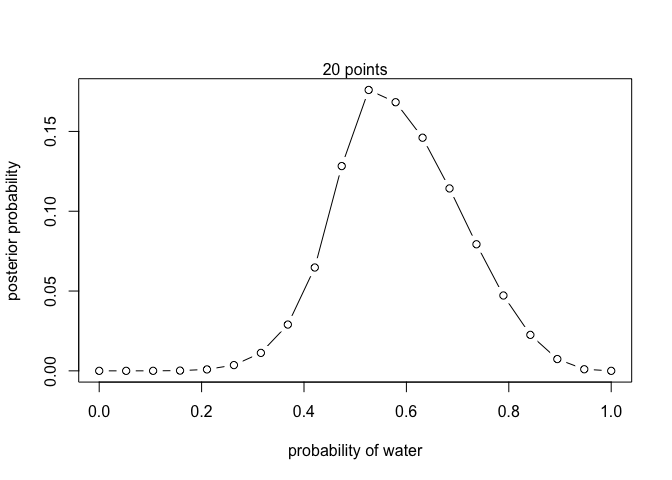
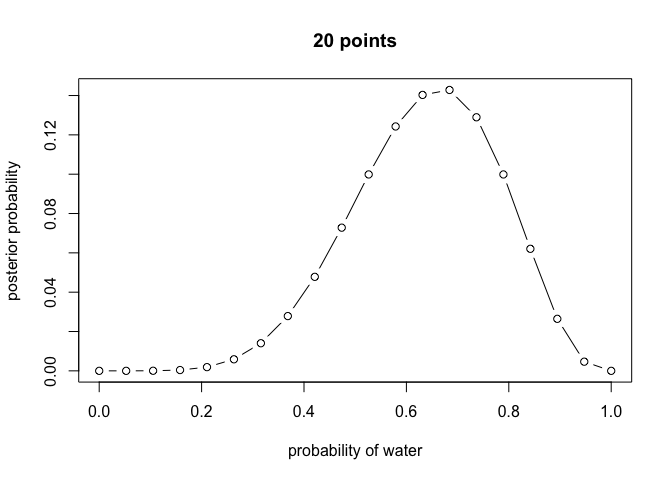
rendering the .md file

diff --git a/Notes_StatisticalRethinking.md b/Notes_StatisticalRethinking.md
@@ -1,36 +1,55 @@
 # Notes_StatisticalRethinking
 Krisma Adiwibawa
 
-## Globe tossing (Grid Approximation)
+## Chapter 2: Small Worlds and Large Worlds
+
+### Grid Approximation in the Globe Tossing Context
 
 ``` r
-# define grid
+# Step 1: Define grid
 p_grid <- seq(0, 1, length.out=20)
+# grid of 20 points. They act as the candidates of the parameter value. We know the proportion of water is between 0 (0 %, no water) and 1 (100%, all water). It's impossible to have a negative value or a value of more than 1, so we limit the candidates values to this range.
+# We even know already that there is more water than land actually. But here we pretend we are dumb and we don't have this idea.
 
-# define prior
-prior <- ifelse(p_grid < 0.5, 0, 1)
-prior <- exp(-5 * abs(p_grid-0.5)) # exponential decay function / Laplace distribution
+# Step 2: Define prior
+prior <- rep(1, length(p_grid))
+#### Prior alternatives:
+# prior <- ifelse(p_grid < 0.5, 0, 1)
+# We assign the prior likelihood of 0 to candidates < 0.5 and the prior likelihood of 1 to candidates >= 0.5
+# or
+# prior <- exp(-5 * abs(p_grid-0.5))
+# exponential decay function / Laplace distribution. Pointy in the middle and has heavier tails than a Gaussian distribution. This is a prior which puts a higher likelihood to the middle value of range 0 and 1
 
-# compute likelihood at each value in grid
+# Step 3: Compute likelihood at each value in grid
 likelihood <- dbinom(6, 9, p_grid)
+# This is where the actual data informs us about the likelihood of each candidate (each element of p_grid). The data would suggest that some elements of p_grid are more likely than others.
 
-# compute product of likelihood and prior
+# Step 4: Compute product of likelihood and prior
 unstd.posterior <- likelihood * prior
+# This is where our prior belief is updated by incorporating information we get from the data.
+# prior <- rep(1, length(p_grid)) means "1" is multiplied to each element in the vector 'likelihood'. In other words, our prior is giving equal likelihood to each candidate because we didn't have any idea which candidate is more likely. Now, we are taking the likelihoods  in the vector 'likelihood' as our 'posterior' (updated belief).
 
-# standardize the posterior, so it sums to 1
+# Step 5: Standardize the posterior, so it sums to 1
 posterior <- unstd.posterior / sum(unstd.posterior)
+
+# Result:
+# Now we have the updated likelihood after seeing the data, namely 'posterior'.
+# Explanation:
+# First, we nominate 20 points between 0 and 1 as the candidates. We have no idea which is the most likely to be true parameter value.
+# After seeing the data, we get some information about the likelihood of the candidates.
+# We then update our prior with this information by multiplying the prior with the information we got from the data. In this case, all parameter candidate (the 20 points in the grid is equally likely (all have a prior of 1).
+# Now, some candidates are more likely than others because the data informs us so. These likelihoods is contained in the vector 'posterior'.
 ```
 
-## Plot
+### Visualization of the likelihood (posterior probability) of each 20 candidate
 
 ``` r
-plot(p_grid, posterior, type="b", xlab = "probability of water", ylab = "posterior probability")
-mtext("20 points")
+plot(p_grid, posterior, type="b", xlab = "probability of water", ylab = "posterior probability", main="20 points")
 ```
 
 ![](Notes_StatisticalRethinking_files/figure-commonmark/unnamed-chunk-2-1.png)
 
-## Globe Tossing (Quadratic Approximation)
+### Quadratic Approximation of the Globe Tossing Context (Try Out)
 
 ``` r
 library(rethinking)
@@ -86,9 +105,9 @@ precis(globe.qa)
 ```
 
            mean        sd      5.5%     94.5%
-    p 0.6666668 0.1571337 0.4155368 0.9177969
+    p 0.6666663 0.1571339 0.4155361 0.9177966
 
-## Compare how good the approximation is
+### Compare How Good the Quadratic Approximation is, With the Grid Approximation Result
 
 ``` r
 # analytical calculation
@@ -102,7 +121,7 @@ curve(dnorm(x, 0.67, 0.16), lty=2, add=TRUE)
 
 ![](Notes_StatisticalRethinking_files/figure-commonmark/unnamed-chunk-4-1.png)
 
-## Globe Tossing (Markov Chain Monte Carlo)
+### Markov Chain Monte Carlo in the Globe Tossing Context (Try Out)
 
 ``` r
 n_samples <- 1000
@@ -120,7 +139,7 @@ for (i in 2:n_samples) {
 }
 ```
 
-## The values in p are samples from the posterior distribution. To compare to the analytical posterior:
+#### The values in p are samples from the posterior distribution. To compare to the analytical posterior:
 
 ``` r
 dens(p, xlim=c(0,1))
@@ -129,7 +148,9 @@ curve(dbeta(x, W+1, L+1), lty=2, add=TRUE)
 
 ![](Notes_StatisticalRethinking_files/figure-commonmark/unnamed-chunk-6-1.png)
 
-## Vampire test
+## Chapter 3: Sampling the Imaginary
+
+### Vampire test
 
 ``` r
 Pr_Positive_Vampire <- 0.95
@@ -146,7 +167,7 @@ Pr_Positive <- Pr_Positive_Vampire * Pr_Vampire + Pr_Positive_Mortal * (1-Pr_Vam
 # 8.7% chance that the suspect is actually a vampire
 ```
 
-## Sampling from a grid-approximate posterior
+### Sampling from a grid-approximate posterior
 
 ``` r
 p_grid <- seq(from=0, to=1, length.out=10000)
@@ -156,7 +177,7 @@ posterior <- prob_data * prob_p
 posterior <- posterior / sum(posterior)
 ```
 
-# Now, we want to take 10000 samples from the posterior
+### Now, we want to take 10000 samples from the posterior
 
 ``` r
 samples <- sample(p_grid, prob=posterior, size=1e4, replace=TRUE)
@@ -172,7 +193,7 @@ dens(samples)
 
 ![](Notes_StatisticalRethinking_files/figure-commonmark/unnamed-chunk-9-2.png)
 
-## Chapter 3 - Practice
+### Ch. 3 - Practice
 
 ``` r
 p_grid <- seq(from=0, to=1, length.out=1000)
@@ -314,4 +335,190 @@ simplehist(post_pred_samples, xlab="Number of water tosses")
 
 ![](Notes_StatisticalRethinking_files/figure-commonmark/unnamed-chunk-10-5.png)
 
-test123
+``` r
+## R code 3.28
+birth1 <- c(1,0,0,0,1,1,0,1,0,1,0,0,1,1,0,1,1,0,0,0,1,0,0,0,1,0,
+0,0,0,1,1,1,0,1,0,1,1,1,0,1,0,1,1,0,1,0,0,1,1,0,1,0,0,0,0,0,0,0,
+1,1,0,1,0,0,1,0,0,0,1,0,0,1,1,1,1,0,1,0,1,1,1,1,1,0,0,1,0,1,1,0,
+1,0,1,1,1,0,1,1,1,1)
+birth2 <- c(0,1,0,1,0,1,1,1,0,0,1,1,1,1,1,0,0,1,1,1,0,0,1,1,1,0,
+1,1,1,0,1,1,1,0,1,0,0,1,1,1,1,0,0,1,0,1,1,1,1,1,1,1,1,1,1,1,1,1,
+1,1,1,0,1,1,0,1,1,0,1,1,1,0,0,0,0,0,0,1,0,0,0,1,1,0,0,1,0,0,1,1,
+0,0,0,1,1,1,0,0,0,0)
+# These data indicate the gender (male=1, female=0) of officially reported first and second born children in 100 two-child families.
+
+(sum(birth1)+sum(birth2))
+```
+
+    [1] 111
+
+``` r
+# Using grid approximation, compute the posterior distribution for the probability of a birth being a boy. Assume a uniform probability. Which parameter value maximizes the posterior probability?
+
+p_grid <- seq(0, 1, length.out=1000)
+prior <- rep(1, length(p_grid))
+# prior <- rep(1, length(p_grid)) This corresponds to a uniform distribution or beta(1,1), which
+
+n_boys <- sum(birth1)+sum(birth2)
+n_total <- length(birth1)+length(birth2)
+
+likelihood <- dbinom(n_boys, n_total, prob= p_grid)
+
+posterior <- likelihood * prior
+posterior <- posterior/sum(posterior)
+
+# Plot posterior
+plot(p_grid, posterior, type = "l", lwd = 2, col = "blue",
+     xlab = "Probability of a boy (p)",
+     ylab = "Posterior probability",
+     main = "Posterior Distribution of p (Grid Approximation)")
+
+# Which parameter value maximizes the posterior probability?
+p_MAP <- p_grid[which.max(posterior)]
+p_MAP
+```
+
+    [1] 0.5545546
+
+``` r
+abline(v = p_MAP, col = "red", lty = 2)
+text(p_MAP, max(posterior), labels = paste0("MAP=", round(p_MAP, 3)),
+     pos = 4, col = "red")
+```
+
+![](Notes_StatisticalRethinking_files/figure-commonmark/unnamed-chunk-10-6.png)
+
+``` r
+# Using the 'sample' function, draw 10000 random parameter values from the posterior distribution you calculated above. Use these samples to estimate the 50%, 89%, and 97% highest posterior density intervals.
+
+set.seed(123)
+posterior_samples <- sample(p_grid, size=10000, replace=TRUE, prob=posterior)
+
+HPDI(posterior_samples, prob=0.5)
+```
+
+         |0.5      0.5| 
+    0.5255255 0.5725726 
+
+``` r
+HPDI(posterior_samples, prob=0.89)
+```
+
+        |0.89     0.89| 
+    0.5005005 0.6106106 
+
+``` r
+HPDI(posterior_samples, prob=0.97)
+```
+
+        |0.97     0.97| 
+    0.4764765 0.6276276 
+
+``` r
+# Use 'rbinom' to simulate 10000 replicates of 200 births. You should end up with 10000 numbers, each one a count of boys out of 200 births. Compare the distribution of predicted numbers of boys to the actual count in the data (111 boys out of 200 births. There are many good ways to visualize the simulations, but the 'dens' command (part of 'rethinking' package) is probably the easiest way in this case. Does it look like the model fits the data well? That is, does the distribution of predictions include the actual observation as a central, likely outcome?
+
+set.seed(123)
+posterior_predictive_dist_boys <- rbinom(n=10000, size=200, prob=posterior_samples)
+# this is creating a 10000 'counts of boys out of 200 births'. Each element in the posterior_samples vector (10000 parameter candidates, whose distribution reflects the updated probabilities of each parameter candidate) determines the count of boys for each element of 'posterior_predictive_dist_boys'.
+
+simplehist(posterior_predictive_dist_boys, main="Predicted Distribution of Boys (out of 200 Births)", xlab="Number of Boys")
+
+abline(v = 111, col = "red", lwd = 2)
+text(111, max(table(posterior_predictive_dist_boys))*0.97, "Actual: 111", col="red", pos=4)
+```
+
+![](Notes_StatisticalRethinking_files/figure-commonmark/unnamed-chunk-10-7.png)
+
+``` r
+# Now compare 10000 counts of boys from 100 simulated first borns only to the number of boys in the first births, birth1. How does the model look in this light?
+
+actual_first_boys <- sum(birth1)
+
+set.seed(123)
+first_boys_simulation <- rbinom(n=10000, size=100, prob=posterior_samples)
+
+simplehist(first_boys_simulation, xlab="Number of boys (first borns", ylab="Frequency", main="Posterior Predictive Distribution for First-Borns")
+
+abline(v = actual_first_boys, col = "red", lwd = 2)
+text(actual_first_boys, max(table(first_boys_simulation))*0.9, 
+     paste("Actual:", actual_first_boys), col="red", pos=2)
+```
+
+![](Notes_StatisticalRethinking_files/figure-commonmark/unnamed-chunk-10-8.png)
+
+``` r
+# The model assumes that sex of first and second births are independent. To check this assumption, focus now on second births that followed female first borns. Compare 10000 simulated counts of boys to only those second births that followed girls. To do this correctly, you need to count the number of first borns who were girls and simulate that many births, 10000 times. Compare the counts of boys in your simulations to the actual observed count of boys following girls. How does the model look in this light? Any guesses what is going on in these data?
+
+girls_first <- which(birth1==0) # index of girl births
+num_girls_first <- length(girls_first) # total number of girl births
+
+actual_boys_after_girls <- sum(birth2[girls_first]) # total number of boys born after a girl
+
+set.seed(123)
+sim_boys_after_girls <- rbinom(n=10000, size=num_girls_first, prob=posterior_samples)
+
+simplehist(sim_boys_after_girls, 
+           xlab = "Number of boys (second-borns after girls)", 
+           ylab = "Frequency", 
+           main = "Posterior Predictive for Second-Borns after Girls")
+
+abline(v = actual_boys_after_girls, col = "red", lwd = 2)
+text(actual_boys_after_girls, max(table(sim_boys_after_girls))*0.9, 
+     paste("Actual:", actual_boys_after_girls), col="red", pos=2)
+```
+
+![](Notes_StatisticalRethinking_files/figure-commonmark/unnamed-chunk-10-9.png)
+
+``` r
+# Trying out creating a model predicting the birth of boys after girls
+index_girls_first <- which(birth1==0)
+num_girls_first <- length(index_girls_first)
+actual_boys_after_girls <- sum(birth2[index_girls_first])
+
+set.seed(123)
+p_grid <- seq(from=0, to=1, length.out=1000)
+prior <- rep(1, length(p_grid))
+
+likelihood <- dbinom(actual_boys_after_girls, num_girls_first, prob=p_grid)
+posterior <- likelihood * prior
+posterior <- likelihood/sum(likelihood)
+
+posterior_samples <- sample(p_grid, prob=posterior, size=10000, replace=TRUE)
+
+set.seed(123)
+posterior_predictive_simulation <- rbinom(10000, size=num_girls_first, prob=posterior_samples)
+
+simplehist(posterior_predictive_simulation,
+           xlab="Number of boys (second-born",
+           ylab="Frequency",
+           mein="Posterior Predictive for Second-Born Boys after Girls")
+```
+
+    Warning in plot.window(...): "mein" is not a graphical parameter
+
+    Warning in plot.xy(xy, type, ...): "mein" is not a graphical parameter
+
+    Warning in axis(side = side, at = at, labels = labels, ...): "mein" is not a
+    graphical parameter
+    Warning in axis(side = side, at = at, labels = labels, ...): "mein" is not a
+    graphical parameter
+
+    Warning in box(...): "mein" is not a graphical parameter
+
+    Warning in title(...): "mein" is not a graphical parameter
+
+    Warning in axis(...): "mein" is not a graphical parameter
+
+``` r
+abline(v = actual_boys_after_girls, col='red', lwd=2)
+text(actual_boys_after_girls, max(table(posterior_samples)),
+     paste("Actual:", actual_boys_after_girls), col='red', pos=2)
+```
+
+![](Notes_StatisticalRethinking_files/figure-commonmark/unnamed-chunk-10-10.png)
+
+``` r
+# So, if the data to be predicted has some assumption that is incorporated in the model, the model is going to predict the data well.
+```
+
+## Chapter 4 - Geocentric Models
